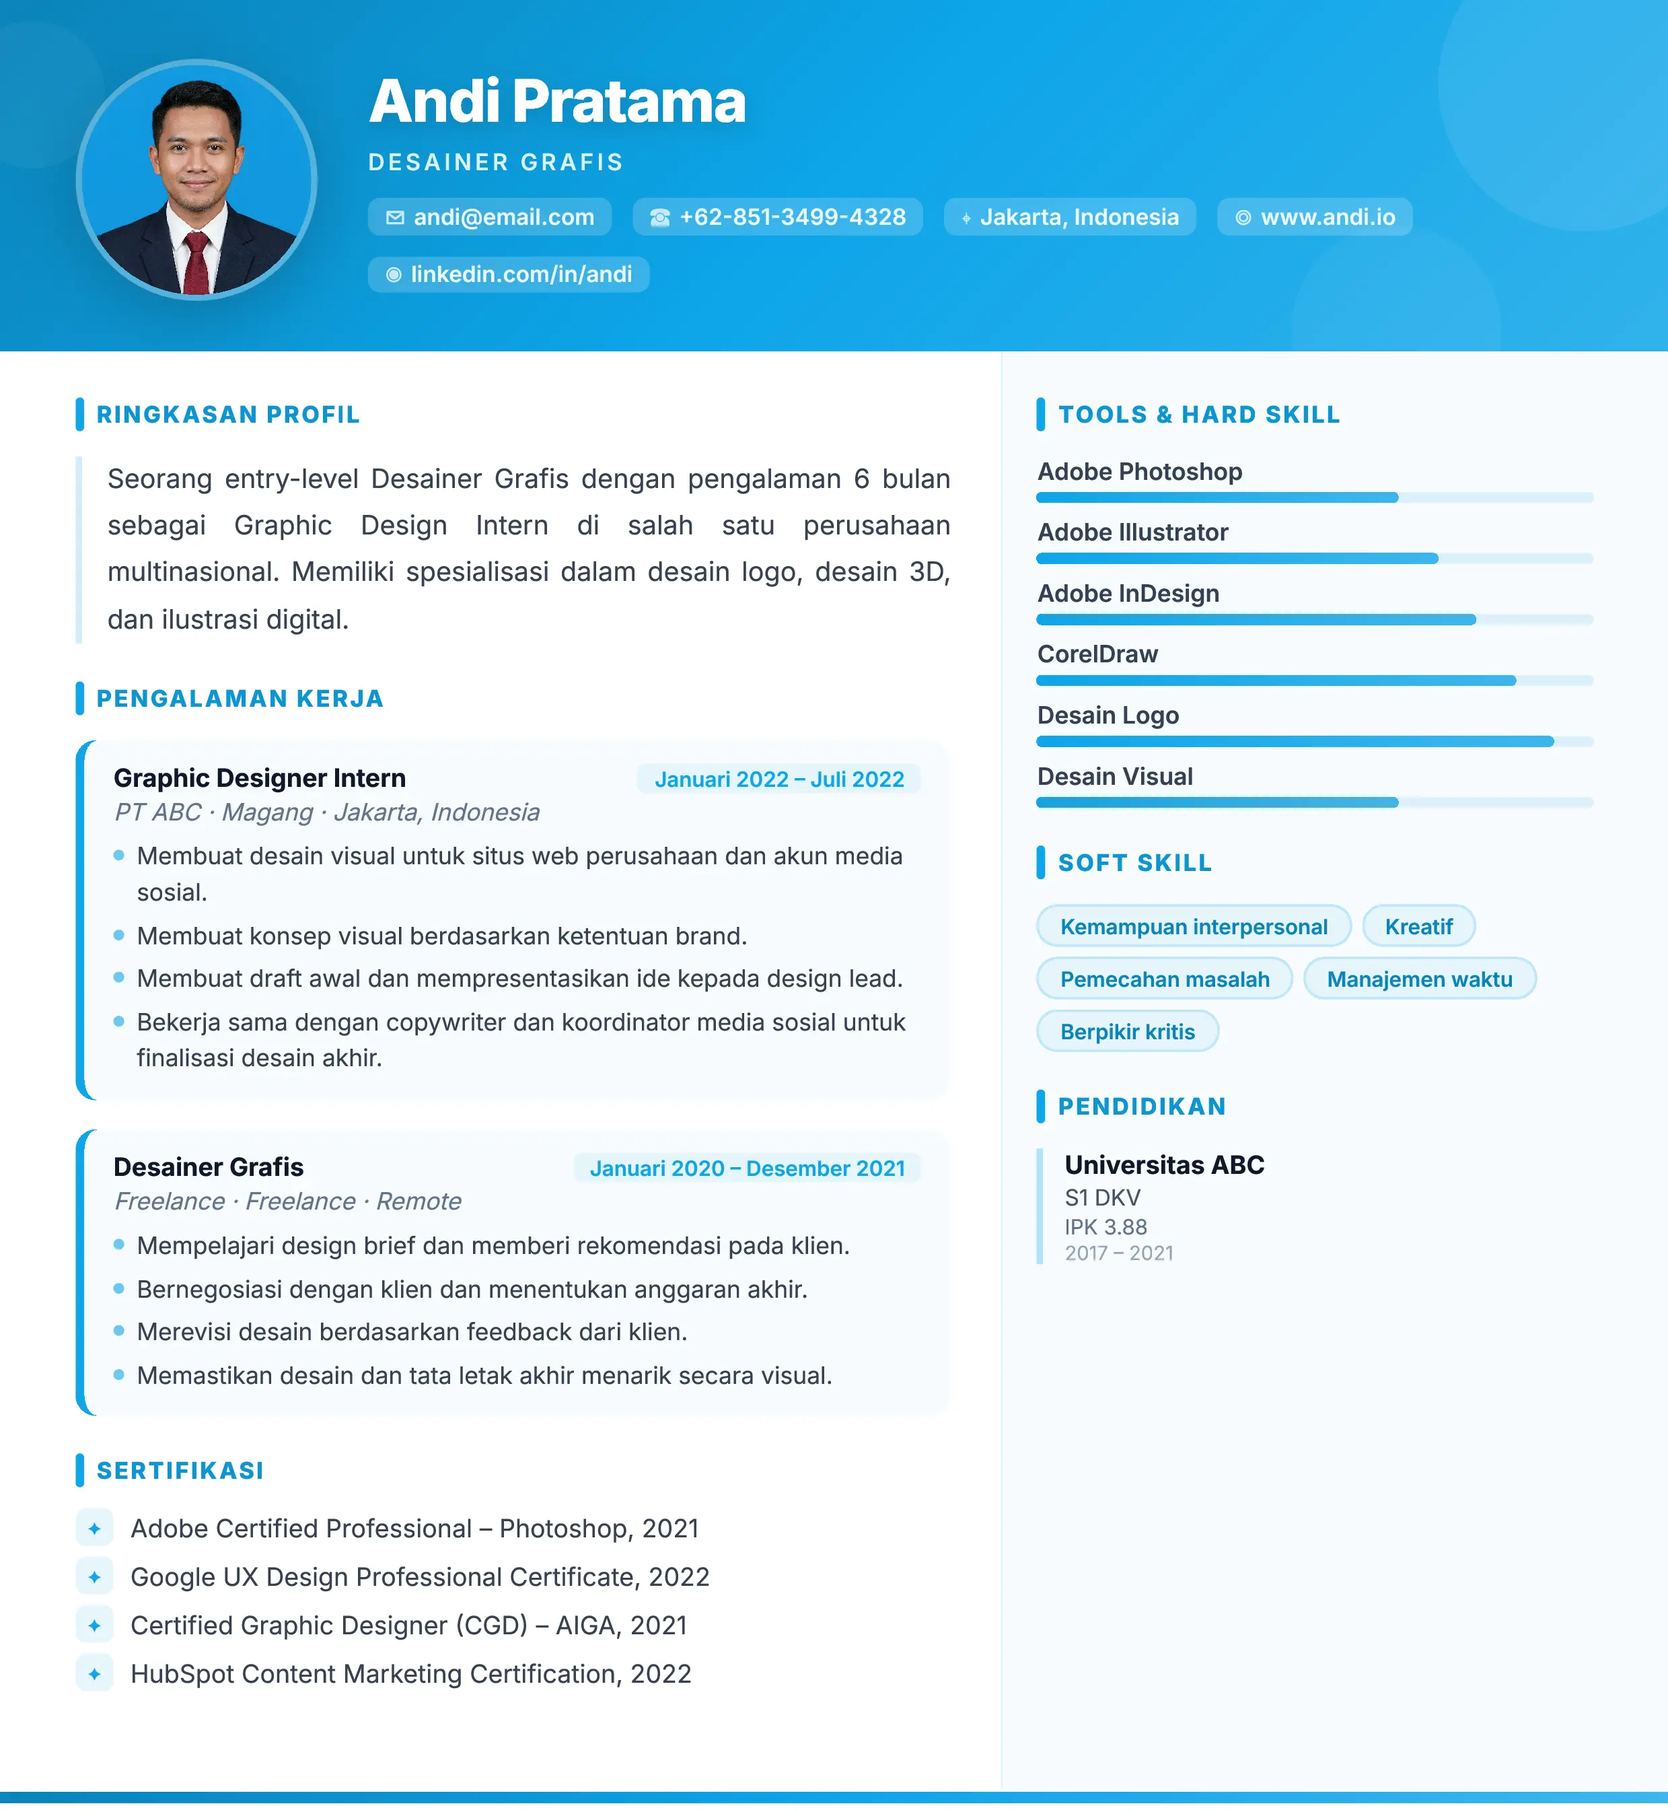
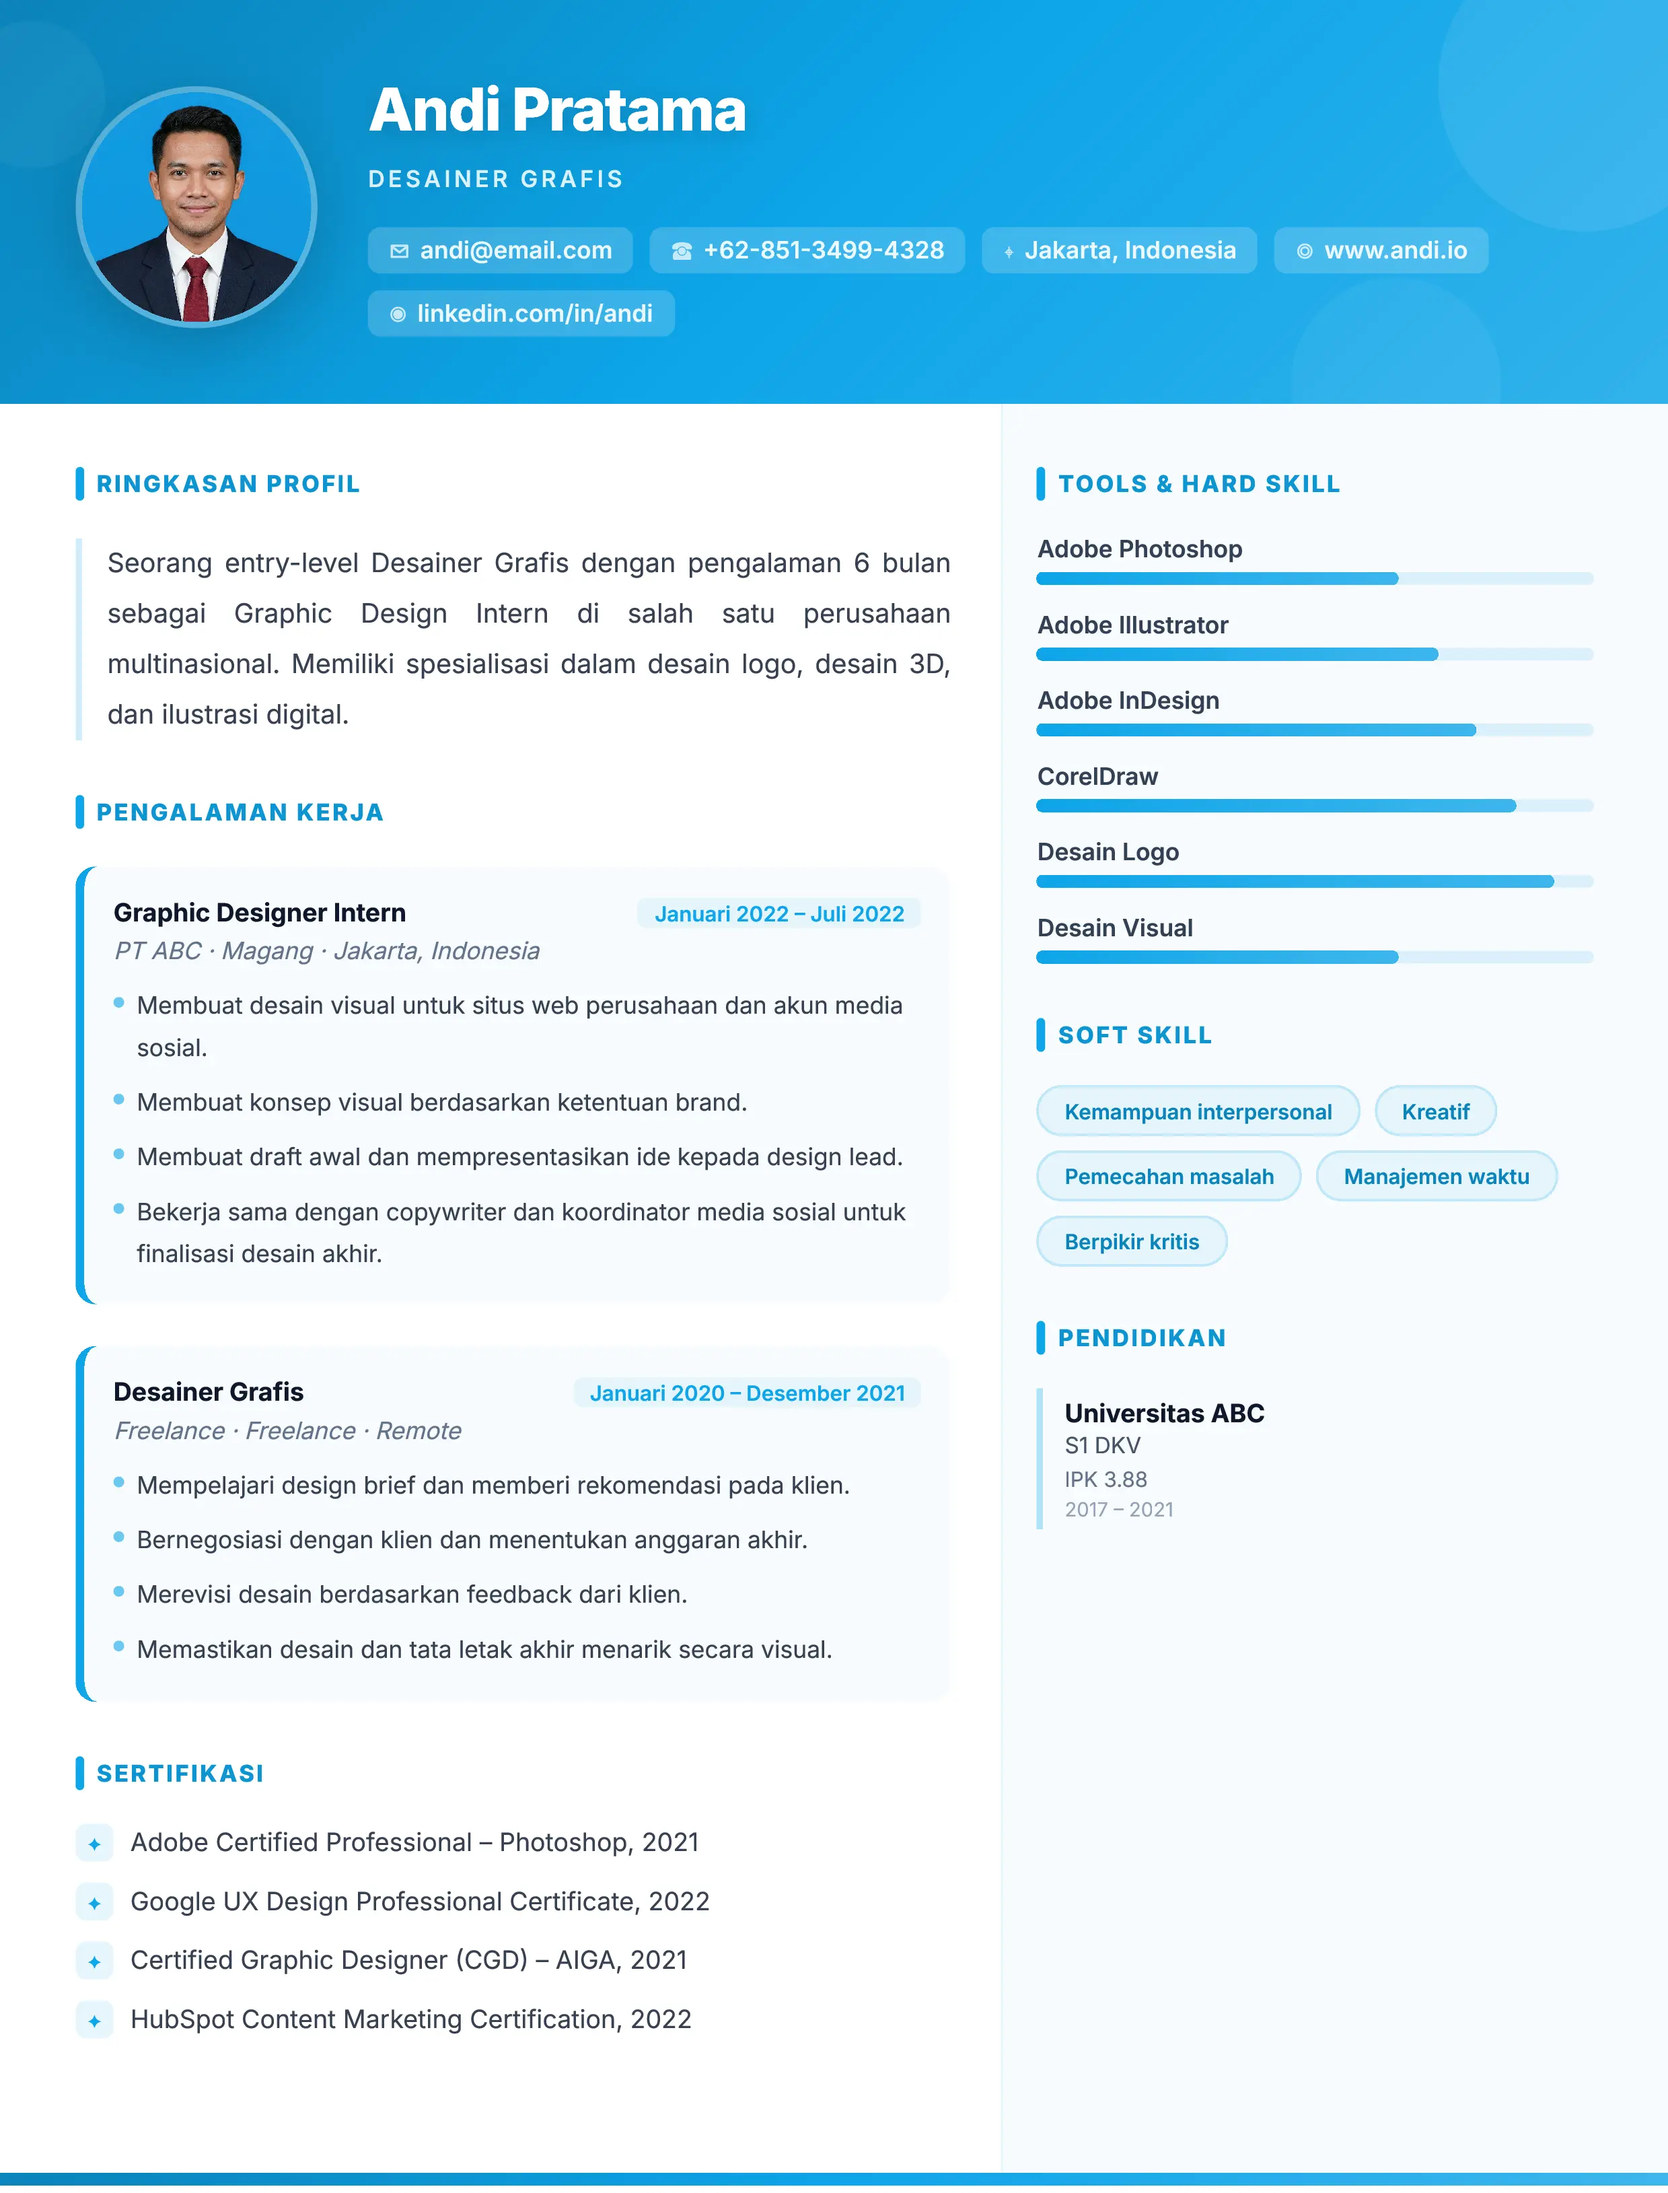
feat: add CreativeTemplate component and associated asset for CV design

diff --git a/src/templates/CreativeTemplate.jsx b/src/templates/CreativeTemplate.jsx
@@ -70,7 +70,7 @@ export default function CreativeTemplate({ data, themeColor = '#6366f1', fontFam
       {/* ═══════ HERO HEADER ═══════ */}
       <header style={{
         background: `linear-gradient(135deg, ${tcDark} 0%, ${tc} 50%, ${lightenColor(tc, 0.15)} 100%)`,
-        padding: '28px 36px 24px',
+        padding: '36px 36px 32px',
         display: 'flex', alignItems: 'center', gap: 24,
         position: 'relative', overflow: 'hidden', flexShrink: 0,
       }}>
@@ -125,7 +125,7 @@ export default function CreativeTemplate({ data, themeColor = '#6366f1', fontFam
           <p style={{
             fontSize: 11, fontWeight: 600, color: 'rgba(255,255,255,0.85)',
             letterSpacing: '0.15em', textTransform: 'uppercase',
-            margin: '6px 0 10px', fontFamily: hf,
+            margin: '10px 0 16px', fontFamily: hf,
           }}>
             {personalInfo.title || t.jobTitle}
           </p>
@@ -133,15 +133,15 @@ export default function CreativeTemplate({ data, themeColor = '#6366f1', fontFam
           {/* Contact row */}
           {contactItems.length > 0 && (
             <div style={{
-              display: 'flex', flexWrap: 'wrap', gap: 10,
-              fontSize: '8pt',
+              display: 'flex', flexWrap: 'wrap', gap: 8,
+              fontSize: '8.5pt',
             }}>
               {contactItems.map((item, i) => (
                 <span key={i} style={{
-                  display: 'inline-flex', alignItems: 'center', gap: 4,
+                  display: 'inline-flex', alignItems: 'center', gap: 5,
                   color: 'rgba(255,255,255,0.9)', fontWeight: 600,
                   background: 'rgba(255,255,255,0.18)',
-                  padding: '2px 8px', borderRadius: 6,
+                  padding: '4px 10px', borderRadius: 6,
                 }}>
                   <span style={{ fontSize: 10, opacity: 0.8 }}>{item.icon}</span>
                   {item.val}
@@ -158,8 +158,8 @@ export default function CreativeTemplate({ data, themeColor = '#6366f1', fontFam
       }}>
         {/* LEFT COLUMN — 60% */}
         <div style={{
-          width: '60%', padding: '22px 24px 24px 36px',
-          display: 'flex', flexDirection: 'column', gap: 18,
+          width: '60%', padding: '30px 24px 36px 36px',
+          display: 'flex', flexDirection: 'column', gap: 26,
           overflow: 'hidden',
         }}>
 
@@ -168,8 +168,8 @@ export default function CreativeTemplate({ data, themeColor = '#6366f1', fontFam
             <section>
               <CreativeHeading text={t.profileSummary} color={tc} font={hf} />
               <p style={{
-                fontSize: '9.5pt', lineHeight: 1.75, color: '#374151',
-                margin: '8px 0 0', textAlign: 'justify',
+                fontSize: '9.5pt', lineHeight: 1.9, color: '#374151',
+                margin: '12px 0 0', textAlign: 'justify',
                 paddingLeft: 12, borderLeft: `3px solid ${hexToRgba(tc, 0.2)}`,
               }}>
                 {summary}
@@ -181,10 +181,10 @@ export default function CreativeTemplate({ data, themeColor = '#6366f1', fontFam
           {experience.some(e => e.company || e.role) && (
             <section>
               <CreativeHeading text={t.workExperience} color={tc} font={hf} />
-              <div style={{ marginTop: 8, display: 'flex', flexDirection: 'column', gap: 14 }}>
+              <div style={{ marginTop: 12, display: 'flex', flexDirection: 'column', gap: 20 }}>
                 {experience.filter(e => e.company || e.role).map((exp, i) => (
                   <div key={i} style={{
-                    padding: '10px 14px',
+                    padding: '14px 14px',
                     borderRadius: 10,
                     background: hexToRgba(tc, 0.03),
                     borderLeft: `4px solid ${tc}`,
@@ -210,7 +210,7 @@ export default function CreativeTemplate({ data, themeColor = '#6366f1', fontFam
                       )}
                     </div>
                     <p style={{
-                      fontSize: '8.5pt', color: '#64748b', margin: '2px 0 6px',
+                      fontSize: '8.5pt', color: '#64748b', margin: '4px 0 10px',
                       fontStyle: 'italic',
                     }}>
                       {exp.company && exp.role ? exp.company : ''}
@@ -219,11 +219,11 @@ export default function CreativeTemplate({ data, themeColor = '#6366f1', fontFam
                     </p>
                     <ul style={{
                       listStyleType: 'none', margin: 0, padding: 0,
-                      display: 'flex', flexDirection: 'column', gap: 3,
+                      display: 'flex', flexDirection: 'column', gap: 6,
                     }}>
                       {exp.bullets?.filter(b => b).map((b, j) => (
                         <li key={j} style={{
-                          fontSize: '8.5pt', lineHeight: 1.55, color: '#374151',
+                          fontSize: '8.5pt', lineHeight: 1.75, color: '#374151',
                           display: 'flex', alignItems: 'flex-start', gap: 6,
                         }}>
                           <span style={{
@@ -245,7 +245,7 @@ export default function CreativeTemplate({ data, themeColor = '#6366f1', fontFam
           {certifications.some(c => c) && (
             <section>
               <CreativeHeading text={t.certifications} color={tc} font={hf} />
-              <div style={{ display: 'flex', flexDirection: 'column', gap: 5, marginTop: 6 }}>
+              <div style={{ display: 'flex', flexDirection: 'column', gap: 10, marginTop: 10 }}>
                 {certifications.filter(c => c).map((cert, i) => (
                   <div key={i} style={{
                     display: 'flex', alignItems: 'center', gap: 8,
@@ -269,10 +269,10 @@ export default function CreativeTemplate({ data, themeColor = '#6366f1', fontFam
 
         {/* RIGHT COLUMN — 40% */}
         <div style={{
-          width: '40%', padding: '22px 36px 24px 16px',
+          width: '40%', padding: '30px 36px 36px 16px',
           background: hexToRgba(tc, 0.03),
           borderLeft: `1px solid ${hexToRgba(tc, 0.08)}`,
-          display: 'flex', flexDirection: 'column', gap: 18,
+          display: 'flex', flexDirection: 'column', gap: 26,
           overflow: 'hidden',
         }}>
 
@@ -280,15 +280,15 @@ export default function CreativeTemplate({ data, themeColor = '#6366f1', fontFam
           {skills.hard.some(s => s) && (
             <section>
               <CreativeHeading text={t.hardSkill || 'Hard Skills'} color={tc} font={hf} />
-              <div style={{ marginTop: 8, display: 'flex', flexDirection: 'column', gap: 7 }}>
+              <div style={{ marginTop: 10, display: 'flex', flexDirection: 'column', gap: 12 }}>
                 {skills.hard.filter(s => s).map((s, i) => (
                   <div key={i}>
-                    <span style={{ fontSize: '8.5pt', fontWeight: 600, color: '#334155', display: 'block', marginBottom: 3 }}>
+                    <span style={{ fontSize: '8.5pt', fontWeight: 600, color: '#334155', display: 'block', marginBottom: 4 }}>
                       {s}
                     </span>
                     {/* Visual bar */}
                     <div style={{
-                      height: 5, borderRadius: 3,
+                      height: 6, borderRadius: 3,
                       background: hexToRgba(tc, 0.12),
                       overflow: 'hidden',
                     }}>
@@ -308,10 +308,10 @@ export default function CreativeTemplate({ data, themeColor = '#6366f1', fontFam
           {skills.soft.some(s => s) && (
             <section>
               <CreativeHeading text={t.softSkill || 'Soft Skills'} color={tc} font={hf} />
-              <div style={{ display: 'flex', flexWrap: 'wrap', gap: 5, marginTop: 8 }}>
+              <div style={{ display: 'flex', flexWrap: 'wrap', gap: 7, marginTop: 10 }}>
                 {skills.soft.filter(s => s).map((s, i) => (
                   <span key={i} style={{
-                    display: 'inline-block', padding: '3px 10px',
+                    display: 'inline-block', padding: '5px 12px',
                     background: hexToRgba(tc, 0.08),
                     color: tcDark, borderRadius: 20,
                     fontSize: '7.5pt', fontWeight: 600,
@@ -328,10 +328,10 @@ export default function CreativeTemplate({ data, themeColor = '#6366f1', fontFam
           {education.some(e => e.institution) && (
             <section>
               <CreativeHeading text={t.education} color={tc} font={hf} />
-              <div style={{ marginTop: 8, display: 'flex', flexDirection: 'column', gap: 10 }}>
+              <div style={{ marginTop: 10, display: 'flex', flexDirection: 'column', gap: 16 }}>
                 {education.filter(e => e.institution).map((edu, i) => (
                   <div key={i} style={{
-                    paddingLeft: 10,
+                    paddingLeft: 10, paddingTop: 4, paddingBottom: 4,
                     borderLeft: `3px solid ${hexToRgba(tc, 0.3)}`,
                   }}>
                     <p style={{
@@ -340,11 +340,11 @@ export default function CreativeTemplate({ data, themeColor = '#6366f1', fontFam
                     }}>
                       {edu.institution}
                     </p>
-                    <p style={{ fontSize: '8pt', color: '#475569', margin: '0 0 1px' }}>
+                    <p style={{ fontSize: '8pt', color: '#475569', margin: '0 0 3px' }}>
                       {edu.degree}{edu.field ? `${t.degreeOf}${edu.field}` : ''}
                     </p>
                     {edu.gpa && (
-                      <p style={{ fontSize: '7.5pt', color: '#64748b', margin: '0 0 1px' }}>
+                      <p style={{ fontSize: '7.5pt', color: '#64748b', margin: '0 0 3px' }}>
                         {t.gpaLabel} {edu.gpa}
                       </p>
                     )}
@@ -363,7 +363,7 @@ export default function CreativeTemplate({ data, themeColor = '#6366f1', fontFam
 
       {/* Bottom accent bar */}
       <div style={{
-        height: 5, flexShrink: 0,
+        height: 6, flexShrink: 0,
         background: `linear-gradient(90deg, ${tcDark}, ${tc}, ${lightenColor(tc, 0.2)})`,
       }} />
     </div>
@@ -375,7 +375,7 @@ function CreativeHeading({ text, color, font }) {
   return (
     <div style={{
       display: 'inline-flex', alignItems: 'center', gap: 6,
-      marginBottom: 2,
+      marginBottom: 6,
     }}>
       <div style={{
         width: 4, height: 16, borderRadius: 2,
